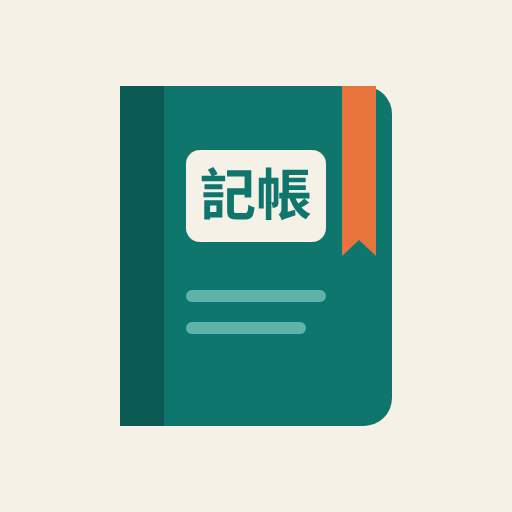
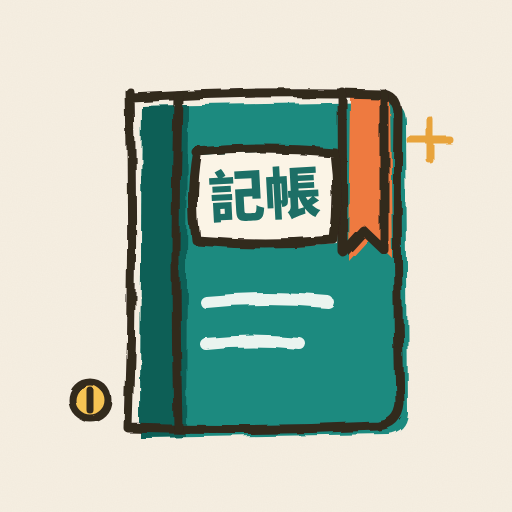
v1.19.0：圖示改手繪風、依日期四季換底色與插圖
- 分類、選單、按鈕圖示全部換成手繪 SVG（錯位色塊＋歪墨線）
- 春夏秋冬各有底色；季節插圖放在當天紀錄區右下，不壓到日期卡
- App icon 更新

Claude-Session: https://claude.ai/code/session_01Fcb6c28EdyZRcC4tUyYEgG

Changed region(s): [[0.125, 0.1562, 0.9062, 0.875]]

diff --git a/app.js b/app.js
@@ -1,5 +1,5 @@
 'use strict';
-const VERSION = '1.18.2';
+const VERSION = '1.19.0';
 
 /* ── 預設分類（跟轉換腳本同一套 ID，匯入時會對上）── */
 const DEFAULT_TREE = {
@@ -30,20 +30,129 @@ function defaultCategories() {
   return out;
 }
 
-/* ── 分類圖示：用預設大類的 ID 對應 emoji 與色調 ── */
+/* ── 手繪風圖示：先錯位塗一層色塊（像蠟筆沒對準），再用歪歪的墨線描 ── */
+const HD = {
+  // f: 上色的色塊、k: 墨線、c: 額外點綴色（腮紅等）
+  bowl: { f: 'M3.5 11.6Q4 18.4 12 18.9Q20 18.5 20.5 11.4Z', k: ['M2.9 11.5Q12 12.2 21.1 11.2', 'M3.4 11.7Q4.2 18.7 12 19.1Q19.8 18.8 20.7 11.4', 'M9 19.3Q12 20.7 15.3 19.1', 'M8.6 9q-1.1-1.6 0-3.1q1-1.4-.1-2.9', 'M12.4 8.8q-1-1.4.1-2.8', 'M14.2 10.5L21.6 4.1', 'M16.3 11L22.1 6.6'] },
+  car: { f: 'M3 15.2Q3 11.6 6 11.3L8 7.7Q9 6.5 12 6.6Q15.4 6.5 16.6 7.8L18.6 11.3Q21.2 11.7 21 15.2L21 16.8L3 16.9Z', k: ['M3.1 16.7L2.9 14.9Q3.1 11.7 6.1 11.2L8.1 7.6Q9.2 6.4 12.2 6.5Q15.6 6.4 16.7 7.9L18.7 11.2Q21.3 11.8 21.1 15L21 16.8', 'M9.7 16.9L14.6 16.8', 'M8.4 11L9.5 8.6Q12 8.1 14.9 8.7L16 11', 'M12 8.4L12.1 11.1'], o: [[7.4, 17.2, 2], [16.8, 17.1, 2]] },
+  house: { f: 'M5 11L5 20L19 20L19 11L12 4.6Z', k: ['M2.8 12.3L12.1 3.8L21.3 12.1', 'M5.2 10.6Q4.9 15.2 5.1 20.1Q12 20.5 18.9 19.9Q19.2 15 18.8 10.4', 'M10 20L10 15.2Q12 14.4 14.1 15.1L14 20', 'M15.9 6.9L15.9 4.1L18.1 4L18.1 8.7'] },
+  bulb: { f: 'M12 3Q18.2 3.2 18 9.4Q17.8 12.4 15.2 14.4L15 16.4L9 16.4L8.8 14.4Q6.2 12.4 6 9.4Q6 3.2 12 3Z', k: ['M9 16.5L8.9 14.5Q6 12.5 5.9 9.3Q6 3.1 12.1 2.9Q18.3 3.1 18.1 9.5Q17.9 12.5 15.2 14.5L15.1 16.6', 'M9.1 18.5L14.9 18.3', 'M10 20.6Q12 21.7 14.1 20.5', 'M10.4 13.8L10.1 10Q12 11.7 13.9 9.9L13.6 13.8', 'M2.6 4.6L4.3 5.8', 'M21.4 4.7L19.8 5.8', 'M1.9 10.1L3.6 10', 'M22.1 10L20.4 10.1'] },
+  bag: { f: 'M5 8L19 8L20 20.5L4 20.5Z', k: ['M5.1 7.8Q12 8.3 18.9 7.9L20.2 20.4Q12 20.9 3.8 20.5L5 7.7', 'M8.8 10.9L8.8 6.4Q9 3.1 12 3.2Q15.1 3.2 15.2 6.5L15.3 10.9'] },
+  pad: { f: 'M7 8Q12 7 17 8Q21.6 8.6 21.8 14.4Q22 18.5 19 18.2Q17 18 15.6 15.6L8.4 15.6Q7 18 5 18.2Q2 18.5 2.2 14.4Q2.4 8.6 7 8Z', k: ['M7.1 7.9Q12 6.9 17.1 7.9Q21.7 8.6 21.9 14.5Q22 18.6 19 18.3Q17 18 15.6 15.5Q12 15.9 8.4 15.6Q7 18.1 5 18.3Q1.9 18.5 2.1 14.3Q2.4 8.5 7.3 7.9', 'M7 10.4L7.1 14.3', 'M5.1 12.4L9 12.3'], o: [[16.3, 11.1, .9], [18.4, 13.3, .9]] },
+  pill: { f: 'M9.6 9.4L13.9 5.1Q16.7 2.6 19.3 5.2Q21.9 8 19 10.7L14.8 14.8Z', k: ['M5.2 13.6L13.6 5.2Q16.6 2.4 19.4 5.2Q22.1 8.1 19 10.9L10.6 19.3Q7.5 22 4.8 19.2Q2.1 16.3 5.3 13.5', 'M9.3 9.4L14.8 14.9', 'M14.6 7.6L16.4 6.2', 'M19.6 15.2L19.7 18.6', 'M18 16.9L21.4 16.8'] },
+  gift: { f: 'M4 10L20 10L19.5 20.5L4.5 20.5Z', k: ['M3 7.2Q12 6.7 21 7.3L20.8 10.4Q12 10.1 3.2 10.6Z', 'M4.4 10.5L4.6 20.6Q12 21 19.4 20.5L19.6 10.3', 'M12 7.1L12.1 20.8', 'M12 7Q8 2.1 6.5 4.8Q6 7.1 12 7Q18 7 17.5 4.7Q16 2.1 12 7'] },
+  kid: { f: 'M12 4.2Q19.4 4.4 19.6 12.2Q19.4 19.8 12 20Q4.6 19.8 4.4 12.2Q4.6 4.4 12 4.2Z', k: ['M12 4.2Q19.5 4.4 19.7 12.2Q19.4 19.9 12 20.1Q4.5 19.8 4.3 12.1Q4.6 4.3 12.4 4.2', 'M10 4.6Q10.9 2.1 13.7 2.7Q12 3.3 12.7 4.4', 'M9.2 10.9L9.2 12.1', 'M14.8 10.9L14.8 12.1', 'M9.4 15Q12 17.5 14.7 15'], c: [[7.6, 14, 1.3], [16.4, 14, 1.3]] },
+  cat: { f: 'M5 9L4.6 3.6L9 6.6Q12 5.8 15 6.6L19.4 3.6L19 9Q21 12 20 15.4Q18.4 20 12 20Q5.6 20 4 15.4Q3 12 5 9Z', k: ['M5 9.1L4.5 3.5L9 6.5Q12 5.7 15.1 6.6L19.5 3.5L19.1 9.1Q21.1 12.1 20.1 15.5Q18.4 20.1 12 20.1Q5.5 20 3.9 15.4Q3 12 5.1 8.9', 'M8.3 12.3Q9.3 11 10.3 12.3', 'M13.7 12.3Q14.7 11 15.7 12.3', 'M11.2 14.4L12 15L12.8 14.4', 'M12 15Q11.1 16.5 10 15.8', 'M12 15Q12.9 16.5 14 15.8', 'M1.6 13.4L6.4 14.2', 'M2 16.5L6.6 15.6', 'M22.4 13.4L17.6 14.2', 'M22 16.5L17.4 15.6'] },
+  box: { f: 'M4 9L12 12.4L20 9L20 17.6L12 21L4 17.6Z', k: ['M4 8.6L12 5L20.1 8.7L12 12.3Z', 'M4 8.9L4.2 17.6L12 21.2L19.8 17.7L20 8.8', 'M12 12.3L12.1 21', 'M8 6.8L16.1 10.5', 'M16.4 15.4L18.4 14.5'] },
+  coin: { f: 'M8.6 8Q3.4 12.4 4.4 17Q5.4 20.8 12 20.8Q18.6 20.8 19.6 17Q20.6 12.4 15.4 8Z', k: ['M8.7 8Q3.3 12.4 4.3 17.1Q5.4 20.9 12 20.9Q18.7 20.8 19.7 17Q20.6 12.3 15.3 7.9', 'M8.4 8.1Q12 8.9 15.6 8', 'M9 7.6L7.4 4Q12 2.3 16.6 4.1L15 7.6', 'M13.7 12.6Q12 11.3 10.6 12.4Q9.7 13.7 12 14.4Q14.5 15.2 13.4 16.8Q12 17.9 10.1 16.6', 'M12 10.6L12 11.7', 'M12 17.5L12 18.6'] },
+  tag: { f: 'M3.5 4L11 3.6L20.6 13.2L13.2 20.6L3.6 11Z', k: ['M3.4 4.1L11.1 3.5L20.7 13.1L13.2 20.7L3.5 11.1Z'], o: [[7.6, 7.6, 1.4]] },
+  /* 線條小圖示（無色塊，跟著文字顏色） */
+  dots: { k: ['M6.8 5.6Q8.6 5.7 8.4 7.3Q8.2 8.7 6.8 8.5Q5.3 8.3 5.5 6.9Q5.7 5.7 7 5.6', 'M17 5.4Q18.7 5.6 18.5 7.1Q18.3 8.6 16.9 8.4Q15.4 8.3 15.6 6.8Q15.8 5.5 17.2 5.5', 'M6.9 15.6Q8.6 15.7 8.5 17.2Q8.3 18.7 6.8 18.5Q5.4 18.3 5.5 16.9Q5.7 15.6 7.1 15.6', 'M17.1 15.5Q18.6 15.7 18.5 17.1Q18.3 18.6 16.9 18.5Q15.4 18.3 15.6 16.9Q15.8 15.5 17.3 15.6'] },
+  more: { k: ['M4.5 12.2Q5.4 11.4 6.1 12.1Q6.5 13 5.4 13.2Q4.5 13.2 4.6 12.2', 'M11.4 11.9Q12.4 11.3 13 12.1Q13.3 13 12.3 13.1Q11.3 13.1 11.5 12', 'M18.2 12Q19.1 11.4 19.7 12.1Q20 13 19 13.1Q18 13.1 18.2 12'] },
+  add: { k: ['M12.6 3.3Q20.6 3.4 20.8 12Q20.5 20.7 12 20.8Q3.3 20.6 3.2 12.2Q3.5 3.8 11.2 3.3', 'M12 8Q12.2 12 11.9 16.2', 'M7.9 12.1Q12 11.8 16.2 12'] },
+  list: { k: ['M8.4 6.1Q14 5.6 20.2 6.2', 'M8.2 12.1Q14 11.7 20.1 12', 'M8.4 18Q14 17.6 19.9 18.1', 'M3.6 5.7L4.4 6.4', 'M3.5 11.7L4.4 12.4', 'M3.6 17.6L4.5 18.3'] },
+  stat: { k: ['M5.1 19.6L5.3 11.1', 'M12 19.7L11.8 4.1', 'M18.9 19.6L19.1 13.9', 'M2.8 20.6Q12 20.1 21.2 20.7'] },
+  gear: { k: ['M12.3 8.9Q15.2 9.2 15.1 12.1Q14.9 15.1 12 15.1Q9 14.9 8.9 12.1Q9 9 12.4 8.9', 'M12.2 6Q18.1 6.1 18 12Q17.8 18.1 11.9 18Q5.9 17.8 6 12.1Q6.2 6.1 12.6 6', 'M12 2.6L12.1 5.6', 'M12 18.4L11.9 21.4', 'M2.6 12.1L5.6 12', 'M18.4 12L21.4 11.9', 'M5.3 5.3L7.4 7.4', 'M16.6 16.6L18.7 18.7', 'M18.7 5.3L16.6 7.4', 'M7.4 16.6L5.3 18.7'] },
+  pen: { k: ['M4.2 19.8L5 15.8L15.6 5.2Q17.2 3.8 18.6 5.3Q20.2 6.8 18.8 8.4L8.2 19L4.2 19.8', 'M14.2 6.8L17.2 9.8', 'M5.1 15.9L8.1 18.9'] },
+  cal: { k: ['M4.1 6.4Q12 5.9 19.9 6.3Q20.3 13 19.8 20Q12 20.4 4.3 19.9Q3.8 13 4.1 6.4', 'M4.2 10.2Q12 9.8 19.8 10.1', 'M8.2 3.8L8.3 7.6', 'M15.8 3.7L15.7 7.6', 'M8 13.6L8.8 14', 'M12 13.5L12.8 13.9', 'M16 13.6L16.7 14', 'M8 16.8L8.8 17.2', 'M12 16.7L12.8 17.1'] },
+  ok: { k: ['M12.6 3.3Q20.6 3.4 20.8 12Q20.5 20.7 12 20.8Q3.3 20.6 3.2 12.2Q3.5 3.8 11.2 3.3', 'M7.8 12.4L10.9 15.6L16.6 8.6'] },
+  bin: { k: ['M3.8 6.6Q12 6.1 20.2 6.7', 'M9.2 6.4L9.6 3.9Q12 3.4 14.5 3.9L14.8 6.4', 'M5.8 6.8L6.9 20.1Q12 20.6 17.1 20L18.2 6.8', 'M10 10.2L10.3 16.6', 'M14 10.1L13.8 16.7'] },
+  rep: { k: ['M4.5 11.5Q4.6 6.6 9.6 6.6L18.6 6.7', 'M15.6 3.6L18.7 6.7L15.7 9.6', 'M19.5 12.5Q19.4 17.4 14.4 17.4L5.4 17.3', 'M8.4 20.4L5.3 17.3L8.3 14.4'] },
+  move: { k: ['M4.2 5.2Q4.1 12.6 11.6 12.9L19.6 13', 'M16.4 9.8L19.7 13L16.5 16.2'] },
+};
+function hd(name, color, cls = '') {
+  const g = HD[name] || HD.tag;
+  let s = `<svg class="hd${color ? ' c' : ''}${cls ? ' ' + cls : ''}" viewBox="0 0 24 24" aria-hidden="true">`;
+  if (g.f && color) s += `<path class="f" d="${g.f}" fill="${color}" transform="translate(.9 1)"/>`;
+  if (g.c) s += g.c.map(([x, y, r]) => `<circle class="f" cx="${x}" cy="${y}" r="${r}" fill="#f472b6"/>`).join('');
+  s += `<g class="k">${g.k.map((d) => `<path d="${d}"/>`).join('')}${(g.o || []).map(([x, y, r]) => `<circle cx="${x}" cy="${y}" r="${r}"/>`).join('')}</g></svg>`;
+  return s;
+}
+/* 分類圖示：用預設大類的 ID 對應手繪圖與色調 */
 const CAT_LOOK = {
-  'exp-00': ['🍜', '#f97316'], 'exp-01': ['🚗', '#3b82f6'], 'exp-02': ['🏠', '#8b5cf6'], 'exp-03': ['💡', '#eab308'],
-  'exp-04': ['🛍', '#ec4899'], 'exp-05': ['🎮', '#22c55e'], 'exp-06': ['💊', '#14b8a6'], 'exp-07': ['🎁', '#ef4444'],
-  'exp-08': ['🧒', '#84cc16'], 'exp-09': ['🐱', '#b45309'], 'exp-10': ['📦', '#64748b'], 'inc-00': ['💰', '#16a34a'],
+  'exp-00': ['bowl', '#f97316'], 'exp-01': ['car', '#3b82f6'], 'exp-02': ['house', '#8b5cf6'], 'exp-03': ['bulb', '#eab308'],
+  'exp-04': ['bag', '#ec4899'], 'exp-05': ['pad', '#22c55e'], 'exp-06': ['pill', '#14b8a6'], 'exp-07': ['gift', '#ef4444'],
+  'exp-08': ['kid', '#84cc16'], 'exp-09': ['cat', '#b45309'], 'exp-10': ['box', '#64748b'], 'inc-00': ['coin', '#16a34a'],
 };
 function catLook(rootId) {
   const c = S.catById.get(rootId);
   const rid = c && c.parentId ? c.parentId : rootId;
-  return CAT_LOOK[rid] || ['🏷', '#64748b'];
+  const [n, h] = CAT_LOOK[rid] || ['tag', '#64748b'];
+  return [hd(n, h), h];
 }
 function catIcon(rootId, size = '') {
   const [e, h] = catLook(rootId);
   return `<span class="ic${size ? ' ' + size : ''}" style="background:${h}26" aria-hidden="true">${e}</span>`;
+}
+
+/* ── 四季：依記一筆的日期換底色、日期卡插圖與邊角點綴（春3-5、夏6-8、秋9-11、冬12-2）── */
+function seasonOf(date) {
+  const m = Number(date.slice(5, 7));
+  return m >= 3 && m <= 5 ? 'spring' : m >= 6 && m <= 8 ? 'summer' : m >= 9 && m <= 11 ? 'autumn' : 'winter';
+}
+const SART = (() => {
+  const K = 'class="sk"';   // 墨線
+  const blossom = (x, y, r, rot = 0) => {
+    let s = `<g transform="translate(${x} ${y}) rotate(${rot})">`;
+    for (let i = 0; i < 5; i++) s += `<ellipse cx="0" cy="${-r * .55}" rx="${r * .42}" ry="${r * .55}" transform="rotate(${i * 72})" fill="#f9a8c4" ${K}/>`;
+    return s + `<circle r="${r * .22}" fill="#f472a0"/><path d="M0 0l${r * .3} ${-r * .5}M0 0l${-r * .35} ${-r * .45}" class="sk" stroke-width=".8"/></g>`;
+  };
+  const petal = (x, y, rot, s = 1) => `<path transform="translate(${x} ${y}) rotate(${rot}) scale(${s})" d="M0 0Q3.5-4.5 7-1Q4 3.5 0 0Z" fill="#f9a8c4" ${K}/>`;
+  const maple = (x, y, rot, s, c) => `<g transform="translate(${x} ${y}) rotate(${rot}) scale(${s}) translate(-10 -10)"><path d="M10 1L11.6 5.6L14.6 4L13.8 8.4L18.6 7.4L16.4 11L19 12.6L13.4 14L14 16.4L10.4 14.8L9.6 14.8L6 16.4L6.6 14L1 12.6L3.6 11L1.4 7.4L6.2 8.4L5.4 4L8.4 5.6Z" fill="${c}" transform="translate(.6 .7)" stroke="none"/><path d="M10 1L11.6 5.6L14.6 4L13.8 8.4L18.6 7.4L16.4 11L19 12.6L13.4 14L14 16.4L10.4 14.8L9.6 14.8L6 16.4L6.6 14L1 12.6L3.6 11L1.4 7.4L6.2 8.4L5.4 4L8.4 5.6Z" fill="none" ${K}/><path d="M10 14.8L10.3 20.2M10 14.6L10 4.6M10 11.8L15.6 8.6M10 11.8L4.4 8.6" ${K} stroke-width=".7"/></g>`;
+  const ginkgo = (x, y, rot, s) => `<g transform="translate(${x} ${y}) rotate(${rot}) scale(${s}) translate(-10 -10)"><path d="M10 12Q2 10.5 2.6 4.2Q6.4 1.6 10 5Q13.6 1.6 17.4 4.2Q18 10.5 10 12Z" fill="#facc15" transform="translate(.6 .7)" stroke="none"/><path d="M10 12Q2 10.5 2.6 4.2Q6.4 1.6 10 5Q13.6 1.6 17.4 4.2Q18 10.5 10 12ZM10 12L10.4 18.6" fill="none" ${K}/></g>`;
+  const flake = (x, y, r, rot = 0) => {
+    let s = `<g transform="translate(${x} ${y}) rotate(${rot})" class="sf">`;
+    for (let i = 0; i < 6; i++) s += `<path transform="rotate(${i * 60})" d="M0 0L0 ${-r}M0 ${-r * .55}l${r * .28} ${-r * .26}M0 ${-r * .55}l${-r * .28} ${-r * .26}"/>`;
+    return s + '</g>';
+  };
+  const sparkle = (x, y, r) => `<path transform="translate(${x} ${y})" d="M0 ${-r}Q.6 -.6 ${r} 0Q.6 .6 0 ${r}Q-.6 .6 ${-r} 0Q-.6 -.6 0 ${-r}Z" fill="#fcd34d" ${K}/>`;
+  const wave = (x, y, n = 3) => `<path transform="translate(${x} ${y})" d="M0 0${'q4 -4.5 8 0t8 0'.repeat(n)}" fill="none" class="sw"/>`;
+  const dot = (x, y, r, c) => `<circle cx="${x}" cy="${y}" r="${r}" fill="${c}"/>`;
+  const svg = (w, h, body) => `<svg viewBox="0 0 ${w} ${h}" aria-hidden="true">${body}</svg>`;
+  return {
+    spring: {
+      card: svg(130, 70, `<g transform="translate(0 16)"><path d="M134 4Q112 9 100 22Q90 34 70 40Q60 43 52 52" fill="none" class="sb"/><path d="M104 18Q110 30 104 44" fill="none" class="sb" stroke-width="1.6"/>
+        ${blossom(100, 24, 9, 10)}${blossom(70, 40, 8, -20)}${blossom(104, 46, 7, 40)}${blossom(122, 8, 8, 0)}${blossom(53, 53, 5.5, 15)}
+        ${petal(36, 20, 30, .9)}${petal(20, 50, -40, .8)}${petal(84, 60, 70, .8)}</g>`),
+      deco: [petal(0, 0, 20, 2.2), petal(0, 0, -50, 1.8), blossom(0, 0, 9, 10), petal(0, 0, 80, 2), petal(0, 0, 140, 1.6), blossom(0, 0, 7, 30)],
+    },
+    summer: {
+      card: svg(130, 70, `<g transform="translate(2 6)"><circle cx="104" cy="22" r="13" fill="#fcd34d" transform="translate(1 1.2)"/><path d="M104 9Q117.4 9.2 117 22.2Q116.6 35 103.8 35Q91 34.6 91.1 21.8Q91.4 9.4 105 9.2" fill="none" class="sk"/>
+        <path d="M104 2.5L104.3 5.6M104 38.6L103.8 41.6M84.6 22L87.6 22.2M120.4 22L123.4 21.8M90.4 8.4L92.6 10.6M115.6 33.4L117.8 35.6M117.8 8.4L115.6 10.6M92.6 33.4L90.4 35.6" class="sk" stroke-width="1.4"/>
+        <path d="M100 20.4Q100.8 19.4 101.6 20.4M106.6 20.4Q107.4 19.4 108.2 20.4M100.6 25.4Q104 28.4 107.6 25.4" fill="none" class="sk" stroke-width="1"/>
+        <path d="M54 30Q54 24 60 25Q62 19 69 21Q75 19 76.6 25.4Q81.4 26 80.6 30.6Q80 33 76 33L57 33Q54 33 54 30Z" fill="#fff" class="sk" stroke-width="1.1"/>
+        ${wave(40, 56, 3)}${wave(74, 63, 2)}${sparkle(30, 22, 4)}</g>`),
+      deco: [sparkle(0, 0, 8), wave(-24, 0, 3), sparkle(0, 0, 6), wave(-16, 0, 2), sparkle(0, 0, 7), wave(-24, 0, 3)],
+    },
+    autumn: {
+      card: svg(130, 70, `<g transform="translate(-4 14)">${maple(104, 24, 15, 1.7, '#f97316')}${maple(72, 46, -25, 1.25, '#dc2626')}${ginkgo(112, 52, 30, 1.1)}${ginkgo(48, 22, -30, .85)}${maple(34, 54, 50, .8, '#f59e0b')}</g>`),
+      deco: [maple(0, 0, 20, 1.6, '#f97316'), ginkgo(0, 0, -30, 1.4), maple(0, 0, -40, 1.3, '#dc2626'), ginkgo(0, 0, 40, 1.2), maple(0, 0, 70, 1.4, '#f59e0b'), ginkgo(0, 0, 10, 1.3)],
+    },
+    winter: {
+      card: svg(130, 70, `<g transform="translate(4 4)"><circle cx="104" cy="50" r="14" fill="#fff" class="sk"/><circle cx="104" cy="29" r="9.5" fill="#fff" class="sk"/>
+        <path d="M94.8 36.6Q104 41.2 113.4 36.4L114 40.2Q104 44 94.4 40.4Z" fill="#ef4444" class="sk" stroke-width="1"/><path d="M110 39.6L113.6 48.6L109.6 47.8" fill="#ef4444" class="sk" stroke-width="1"/>
+        <path d="M94.6 21.6Q104 19.4 113.4 21.8M97.4 21L98.4 12.6Q104 10.4 109.8 12.8L110.6 21.2" fill="#60a5fa" class="sk" stroke-width="1.1"/>
+        ${dot(100.6, 27.4, 1.1, 'var(--ink)')}${dot(107.4, 27.4, 1.1, 'var(--ink)')}<path d="M104 30.2L110.6 31.6L104 32.4Z" fill="#fb923c" class="sk" stroke-width=".8"/>
+        ${dot(104, 46, 1, 'var(--ink)')}${dot(104, 51.5, 1, 'var(--ink)')}<path d="M91 47L82 42M117 47L125 41" class="sk" stroke-width="1.2"/>
+        ${flake(70, 22, 8, 10)}${flake(46, 48, 6, 0)}${flake(124, 12, 5, 20)}${flake(80, 56, 4.5, 15)}</g>`),
+      deco: [flake(0, 0, 13, 0), flake(0, 0, 9, 15), dot(0, 0, 4, '#bfdbfe'), flake(0, 0, 11, 30), dot(0, 0, 3, '#bfdbfe'), flake(0, 0, 10, 5)],
+    },
+  };
+})();
+// 邊角點綴擺放位置：[left 或 right, %, top %]，盡量落在畫面邊緣與卡片之間的空隙
+const SDECO_POS = [['right', -4, 3], ['left', -5, 33], ['right', -5, 50], ['left', -5, 66], ['right', -4, 84], ['left', 26, 97]];
+let curSeason = '';
+function applySeason(date) {
+  const s = seasonOf(date);
+  if (s === curSeason) return;
+  curSeason = s;
+  document.documentElement.dataset.season = s;
+  const art = SART[s];
+  $('#seasonDeco').innerHTML = art.deco.map((d, i) => {
+    const [side, x, y] = SDECO_POS[i];
+    return `<svg class="sd" viewBox="-30 -30 60 60" style="${side}:${x}%;top:${y}%" aria-hidden="true">${d}</svg>`;
+  }).join('');
+  $('#dateArt').innerHTML = art.card;
 }
 
 /* ── 小工具 ── */
@@ -215,7 +324,7 @@ function heroInfo(date) {
     diff,
     label: `${date.slice(0, 4) !== T.slice(0, 4) ? d.getFullYear() + '年' : ''}${d.getMonth() + 1}月${d.getDate()}日 週${WEEK[d.getDay()]}`,
     badge: diff === 0 ? '今天' : diff === 1 ? '昨天' : diff === -1 ? '明天・預定' : diff > 0 ? `${diff} 天前` : `${-diff} 天後・預定`,
-    cls: diff === 0 ? 'today' : diff > 0 ? 'past' : 'future',
+    cls: (diff === 0 ? 'today' : diff > 0 ? 'past' : 'future') + ' s-' + seasonOf(date),
   };
 }
 function dayData(date) {
@@ -239,7 +348,7 @@ const dayListHTML = (items) => (items.length
 function sidePageHTML(date) {
   const h = heroInfo(date), dd = dayData(date);
   return `<div class="date-hero ${h.cls}"><span class="dh-pick"><span class="dh-date">${h.label}</span></span><span class="dh-badge">${h.badge}</span>
-    <span class="day-sum">${daySumHTML(dd)}</span></div><div class="day-wrap"><div class="day-inline">${dayListHTML(dd.items)}</div></div>`;
+    <span class="day-sum">${daySumHTML(dd)}</span></div><div class="day-wrap"><span class="dh-art">${SART[seasonOf(date)].card}</span><div class="day-inline">${dayListHTML(dd.items)}</div></div>`;
 }
 function renderDate() {
   $('#date').value = S.date;
@@ -247,6 +356,7 @@ function renderDate() {
   $('#dateLabel').textContent = h.label;
   $('#dateBadge').textContent = h.badge;
   $('#dateHero').className = 'date-hero ' + h.cls;
+  applySeason(S.date);
   $('#dayToday').disabled = h.diff === 0;
 }
 const mdOf = (s) => `${Number(s.slice(5, 7))}/${Number(s.slice(8))}`;
@@ -265,7 +375,7 @@ function renderCats() {
   $('#freqCats').innerHTML = shown.map((id) => {
     const c = S.catById.get(id); if (!c) return '';
     return `<button class="tile${id === S.subId ? ' on' : ''}" data-sub="${esc(id)}"><span class="e">${catLook(c.parentId || c.id)[0]}</span><span class="n">${esc(c.name)}</span></button>`;
-  }).join('') + '<button class="tile more" id="moreCats"><span class="e">⋯</span><span class="n">更多</span></button>';
+  }).join('') + `<button class="tile more" id="moreCats"><span class="e">${hd('more')}</span><span class="n">更多</span></button>`;
   $('#allCats').innerHTML = roots(S.type).map((r) => {
     const [e, h] = catLook(r.id);
     const subs = subsOf(r.id);
@@ -318,7 +428,7 @@ function renderRepeat(ed) {
   const pill = $('#repeatPill');
   pill.hidden = !!(ed && !ed.scheduled);   // 已入帳的紀錄不能改重複
   $('#repeat').value = S.repeat;
-  $('#repeatLabel').textContent = S.repeat ? `🔁 ${REPEAT_LABEL[S.repeat]}` : '不重複';
+  $('#repeatLabel').innerHTML = S.repeat ? `${hd('rep')} ${REPEAT_LABEL[S.repeat]}` : '不重複';
   pill.classList.toggle('on', !!S.repeat);
 }
 function resetForm(keepDate) {
@@ -1071,10 +1181,10 @@ async function catAction(e) {
 function openSubAction(id) {
   const c = S.catById.get(id); if (!c) return;
   const n = S.tx.filter((t) => t.subcategoryId === id && !t.deleted).length;
-  $('#catActTitle').textContent = `${catLook(c.parentId)[0]} ${catName(c.parentId)} › ${c.name}`;
+  $('#catActTitle').innerHTML = `${catLook(c.parentId)[0]} ${esc(catName(c.parentId))} › ${esc(c.name)}`;
   $('#catActBody').innerHTML = `<p class="note-text">這個小類有 ${n.toLocaleString()} 筆紀錄。</p>
-    <button class="item accent sa-btn" data-sa="rename">✏ 改名</button>
-    <button class="item accent sa-btn" data-sa="move">↪ 搬到其他大類</button>`;
+    <button class="item accent sa-btn" data-sa="rename">${hd('pen')} 改名</button>
+    <button class="item accent sa-btn" data-sa="move">${hd('move')} 搬到其他大類</button>`;
   $('#catActBody').dataset.id = id;
   openDrawer('catActDrawer');
 }

diff --git a/index.html b/index.html
@@ -518,6 +518,45 @@ main{padding-bottom:calc(76px + env(safe-area-inset-bottom))}
 html,body,main{overscroll-behavior:none}
 body.on-add main{overflow-y:hidden}
 .day-inline,.imp-body,.drawer-b{overscroll-behavior-y:none}
+/* v1.19.0 手繪圖示＋四季 */
+:root{--ink:#3d342c}
+@media (prefers-color-scheme: dark){:root{--ink:#e6dccd}}
+.hd{display:inline-block;width:1.3em;height:1.3em;vertical-align:-.28em;overflow:visible;flex:none}
+.hd .k{fill:none;stroke:currentColor;stroke-width:1.7;stroke-linecap:round;stroke-linejoin:round}
+.hd.c .k{stroke:var(--ink);stroke-width:1.5}
+.hd .f{opacity:.62}
+.on .hd.c .k,.ok .hd.c .k{stroke:currentColor}
+.on .hd .f{opacity:.85}
+.ic{border-radius:44% 56% 52% 48%/52% 46% 54% 48%}
+.ic .hd{width:1.35em;height:1.35em;vertical-align:0}
+.tile .e .hd,.chip .e .hd{vertical-align:-.2em}
+.fab-main .hd,.fab-item .hd{width:26px;height:26px}
+.fab-main .hd .k{stroke-width:2}
+.eb-btn .hd,.eb-t .hd,.sa-btn .hd{width:1.15em;height:1.15em;vertical-align:-.2em}
+#repeatLabel .hd{width:1.1em;height:1.1em;vertical-align:-.18em}
+/* 四季底色 */
+html{transition:background-color .4s}
+html[data-season=spring]{--bg:#f7eef0;--line:#eddde2;--key-op:#f0e2e6;--rule:#f2e6e9}
+html[data-season=summer]{--bg:#e5f2f4;--line:#d2e5e9;--key-op:#d7e9ed;--rule:#e0eef1}
+html[data-season=autumn]{--bg:#f4ecdf;--line:#e7dccb;--key-op:#ebe1d0;--rule:#efe6d8}
+html[data-season=winter]{--bg:#e9eef5;--line:#d8e0ea;--key-op:#dce4ee;--rule:#e4eaf2}
+@media (prefers-color-scheme: dark){
+  html[data-season=spring]{--bg:#191416;--line:#33292d;--key-op:#33292d;--rule:#2b2326}
+  html[data-season=summer]{--bg:#0f181b;--line:#233439;--key-op:#26373b;--rule:#1d2b2f}
+  html[data-season=autumn]{--bg:#1a1611;--line:#352d22;--key-op:#372f25;--rule:#2c251c}
+  html[data-season=winter]{--bg:#12161c;--line:#29313b;--key-op:#2c343e;--rule:#222931}
+}
+.season-deco{position:fixed;inset:0;z-index:-1;pointer-events:none;overflow:hidden;opacity:.55}
+.season-deco .sd{position:absolute;width:54px;height:54px;overflow:visible}
+.sk{stroke:var(--ink);stroke-width:1;stroke-linecap:round;stroke-linejoin:round}
+.sb{stroke:#8a5a44;stroke-width:2.4;stroke-linecap:round}
+.sf{fill:none;stroke:#7fb0e0;stroke-width:1.6;stroke-linecap:round}
+.sw{stroke:#5bb4d8;stroke-width:1.6;stroke-linecap:round}
+.dh-art{position:absolute;right:6px;bottom:6px;height:min(140px,calc(100% - 44px));width:auto;max-width:72%;aspect-ratio:130/70;pointer-events:none;opacity:.7;z-index:0}
+.dh-art svg{width:100%;height:100%;overflow:visible}
+.day-wrap .day-inline,.day-wrap .more-hint{z-index:1}
+.day-inline .di-empty{align-items:flex-start;padding-top:16px}
+@media (prefers-color-scheme: dark){.season-deco{opacity:.35}.dh-art{opacity:.5}.dh-art [fill="#fff"]{fill:#2a3331}}
 .toast{position:fixed;left:50%;top:calc(10px + env(safe-area-inset-top));transform:translateX(-50%) translateY(-20px);background:var(--text);color:var(--bg);
   padding:9px 16px;border-radius:999px;font-size:14px;opacity:0;transition:.2s;pointer-events:none;z-index:9;white-space:nowrap}
 .toast.on{opacity:1;transform:translateX(-50%) translateY(0)}
@@ -528,17 +567,18 @@ body.on-add main{overflow-y:hidden}
 </style>
 </head>
 <body class="on-add">
+<div class="season-deco" id="seasonDeco" aria-hidden="true"></div>
 <div class="app">
   <div class="update" id="updateBar">有新版本，點這裡更新</div>
   <main>
     <!-- 記一筆 -->
     <section class="view on" id="v-add">
       <div class="edit-bar" id="editBar">
-        <div class="eb-top"><span class="eb-t">✏ <b id="editTitle">正在編輯</b><span class="grow" id="editSub"></span></span><button class="eb-x" id="btnCancel">取消</button></div>
+        <div class="eb-top"><span class="eb-t"><svg class="hd" viewBox="0 0 24 24" aria-hidden="true"><g class="k"><path d="M4.2 19.8L5 15.8L15.6 5.2Q17.2 3.8 18.6 5.3Q20.2 6.8 18.8 8.4L8.2 19L4.2 19.8"/><path d="M14.2 6.8L17.2 9.8"/><path d="M5.1 15.9L8.1 18.9"/></g></svg> <b id="editTitle">正在編輯</b><span class="grow" id="editSub"></span></span><button class="eb-x" id="btnCancel">取消</button></div>
         <div class="eb-act">
-          <label class="eb-btn">📅 改日期<input type="date" id="editDate" aria-label="改日期"></label>
-          <button class="eb-btn" id="btnConfirm" hidden>✅ 確認入帳</button>
-          <button class="eb-btn del" id="btnDelete">🗑 刪除</button>
+          <label class="eb-btn"><svg class="hd" viewBox="0 0 24 24" aria-hidden="true"><g class="k"><path d="M4.1 6.4Q12 5.9 19.9 6.3Q20.3 13 19.8 20Q12 20.4 4.3 19.9Q3.8 13 4.1 6.4"/><path d="M4.2 10.2Q12 9.8 19.8 10.1"/><path d="M8.2 3.8L8.3 7.6"/><path d="M15.8 3.7L15.7 7.6"/><path d="M8 13.6L8.8 14"/><path d="M12 13.5L12.8 13.9"/><path d="M16 13.6L16.7 14"/><path d="M8 16.8L8.8 17.2"/><path d="M12 16.7L12.8 17.1"/></g></svg> 改日期<input type="date" id="editDate" aria-label="改日期"></label>
+          <button class="eb-btn" id="btnConfirm" hidden><svg class="hd" viewBox="0 0 24 24" aria-hidden="true"><g class="k"><path d="M12.6 3.3Q20.6 3.4 20.8 12Q20.5 20.7 12 20.8Q3.3 20.6 3.2 12.2Q3.5 3.8 11.2 3.3"/><path d="M7.8 12.4L10.9 15.6L16.6 8.6"/></g></svg> 確認入帳</button>
+          <button class="eb-btn del" id="btnDelete"><svg class="hd" viewBox="0 0 24 24" aria-hidden="true"><g class="k"><path d="M3.8 6.6Q12 6.1 20.2 6.7"/><path d="M9.2 6.4L9.6 3.9Q12 3.4 14.5 3.9L14.8 6.4"/><path d="M5.8 6.8L6.9 20.1Q12 20.6 17.1 20L18.2 6.8"/><path d="M10 10.2L10.3 16.6"/><path d="M14 10.1L13.8 16.7"/></g></svg> 刪除</button>
         </div>
       </div>
       <div class="add-top" id="dayZone">
@@ -550,7 +590,7 @@ body.on-add main{overflow-y:hidden}
               <span class="dh-badge" id="dateBadge"></span>
               <button class="day-sum" id="daySum"></button>
             </div>
-            <div class="day-wrap"><div class="day-inline" id="dayInline"></div><button class="more-hint" id="moreHint" hidden></button></div>
+            <div class="day-wrap"><span class="dh-art" id="dateArt"></span><div class="day-inline" id="dayInline"></div><button class="more-hint" id="moreHint" hidden></button></div>
           </div>
           <div class="day-page side" id="pageNext" aria-hidden="true"></div>
         </div></div>
@@ -646,11 +686,11 @@ body.on-add main{overflow-y:hidden}
   </main>
 
   <nav class="fab" id="tabs" aria-label="主選單">
-    <button class="fab-main" id="fabMain" aria-label="開啟選單" aria-expanded="false"><svg viewBox="0 0 24 24" fill="none" stroke="currentColor" stroke-width="2.2" stroke-linecap="round"><circle cx="7" cy="7" r="1.6"/><circle cx="17" cy="7" r="1.6"/><circle cx="7" cy="17" r="1.6"/><circle cx="17" cy="17" r="1.6"/></svg></button>
-    <button class="fab-item on" data-v="v-add" style="--i:0"><svg viewBox="0 0 24 24" fill="none" stroke="currentColor" stroke-width="2" stroke-linecap="round"><circle cx="12" cy="12" r="9"/><path d="M12 8v8M8 12h8"/></svg><span>記一筆</span></button>
-    <button class="fab-item" data-v="v-list" style="--i:1"><svg viewBox="0 0 24 24" fill="none" stroke="currentColor" stroke-width="2" stroke-linecap="round"><path d="M8 6h12M8 12h12M8 18h12"/><circle cx="4" cy="6" r="1"/><circle cx="4" cy="12" r="1"/><circle cx="4" cy="18" r="1"/></svg><span>明細</span></button>
-    <button class="fab-item" data-v="v-stat" style="--i:2"><svg viewBox="0 0 24 24" fill="none" stroke="currentColor" stroke-width="2" stroke-linecap="round"><path d="M5 20V11M12 20V4M19 20v-6"/></svg><span>統計</span></button>
-    <button class="fab-item" data-v="v-set" style="--i:3"><svg viewBox="0 0 24 24" fill="none" stroke="currentColor" stroke-width="2" stroke-linecap="round"><circle cx="12" cy="12" r="3"/><path d="M19.4 15a1.7 1.7 0 0 0 .3 1.8l.1.1a2 2 0 1 1-2.8 2.8l-.1-.1a1.7 1.7 0 0 0-1.8-.3 1.7 1.7 0 0 0-1 1.5V21a2 2 0 1 1-4 0v-.1a1.7 1.7 0 0 0-1.1-1.5 1.7 1.7 0 0 0-1.8.3l-.1.1a2 2 0 1 1-2.8-2.8l.1-.1a1.7 1.7 0 0 0 .3-1.8 1.7 1.7 0 0 0-1.5-1H3a2 2 0 1 1 0-4h.1a1.7 1.7 0 0 0 1.5-1.1 1.7 1.7 0 0 0-.3-1.8l-.1-.1a2 2 0 1 1 2.8-2.8l.1.1a1.7 1.7 0 0 0 1.8.3H9a1.7 1.7 0 0 0 1-1.5V3a2 2 0 1 1 4 0v.1a1.7 1.7 0 0 0 1 1.5 1.7 1.7 0 0 0 1.8-.3l.1-.1a2 2 0 1 1 2.8 2.8l-.1.1a1.7 1.7 0 0 0-.3 1.8V9a1.7 1.7 0 0 0 1.5 1H21a2 2 0 1 1 0 4h-.1a1.7 1.7 0 0 0-1.5 1z"/></svg><span>設定</span></button>
+    <button class="fab-main" id="fabMain" aria-label="開啟選單" aria-expanded="false"><svg class="hd" viewBox="0 0 24 24" aria-hidden="true"><g class="k"><path d="M6.8 5.6Q8.6 5.7 8.4 7.3Q8.2 8.7 6.8 8.5Q5.3 8.3 5.5 6.9Q5.7 5.7 7 5.6"/><path d="M17 5.4Q18.7 5.6 18.5 7.1Q18.3 8.6 16.9 8.4Q15.4 8.3 15.6 6.8Q15.8 5.5 17.2 5.5"/><path d="M6.9 15.6Q8.6 15.7 8.5 17.2Q8.3 18.7 6.8 18.5Q5.4 18.3 5.5 16.9Q5.7 15.6 7.1 15.6"/><path d="M17.1 15.5Q18.6 15.7 18.5 17.1Q18.3 18.6 16.9 18.5Q15.4 18.3 15.6 16.9Q15.8 15.5 17.3 15.6"/></g></svg></button>
+    <button class="fab-item on" data-v="v-add" style="--i:0"><svg class="hd" viewBox="0 0 24 24" aria-hidden="true"><g class="k"><path d="M12.6 3.3Q20.6 3.4 20.8 12Q20.5 20.7 12 20.8Q3.3 20.6 3.2 12.2Q3.5 3.8 11.2 3.3"/><path d="M12 8Q12.2 12 11.9 16.2"/><path d="M7.9 12.1Q12 11.8 16.2 12"/></g></svg><span>記一筆</span></button>
+    <button class="fab-item" data-v="v-list" style="--i:1"><svg class="hd" viewBox="0 0 24 24" aria-hidden="true"><g class="k"><path d="M8.4 6.1Q14 5.6 20.2 6.2"/><path d="M8.2 12.1Q14 11.7 20.1 12"/><path d="M8.4 18Q14 17.6 19.9 18.1"/><path d="M3.6 5.7L4.4 6.4"/><path d="M3.5 11.7L4.4 12.4"/><path d="M3.6 17.6L4.5 18.3"/></g></svg><span>明細</span></button>
+    <button class="fab-item" data-v="v-stat" style="--i:2"><svg class="hd" viewBox="0 0 24 24" aria-hidden="true"><g class="k"><path d="M5.1 19.6L5.3 11.1"/><path d="M12 19.7L11.8 4.1"/><path d="M18.9 19.6L19.1 13.9"/><path d="M2.8 20.6Q12 20.1 21.2 20.7"/></g></svg><span>統計</span></button>
+    <button class="fab-item" data-v="v-set" style="--i:3"><svg class="hd" viewBox="0 0 24 24" aria-hidden="true"><g class="k"><path d="M12.3 8.9Q15.2 9.2 15.1 12.1Q14.9 15.1 12 15.1Q9 14.9 8.9 12.1Q9 9 12.4 8.9"/><path d="M12.2 6Q18.1 6.1 18 12Q17.8 18.1 11.9 18Q5.9 17.8 6 12.1Q6.2 6.1 12.6 6"/><path d="M12 2.6L12.1 5.6"/><path d="M12 18.4L11.9 21.4"/><path d="M2.6 12.1L5.6 12"/><path d="M18.4 12L21.4 11.9"/><path d="M5.3 5.3L7.4 7.4"/><path d="M16.6 16.6L18.7 18.7"/><path d="M18.7 5.3L16.6 7.4"/><path d="M7.4 16.6L5.3 18.7"/></g></svg><span>設定</span></button>
   </nav>
 </div>
 <div class="imp" id="impView">

diff --git a/sw.js b/sw.js
@@ -1,5 +1,5 @@
 // 改了任何檔案就把版本號 +1，手機才會抓到新版
-const CACHE = 'ledger-v1.18.2';
+const CACHE = 'ledger-v1.19.0';
 const ASSETS = ['./', './index.html', './app.js', './manifest.webmanifest', './icon-180.png', './icon-512.png', './lib/sql-wasm.js', './lib/sql-wasm.wasm'];
 
 self.addEventListener('install', (e) => {
